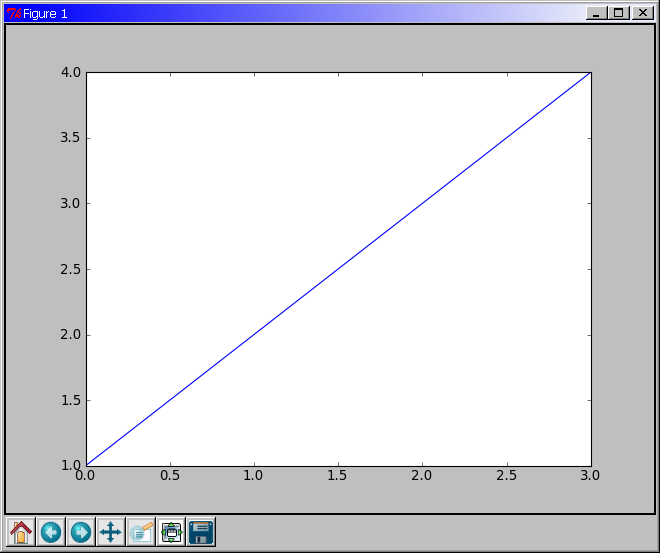
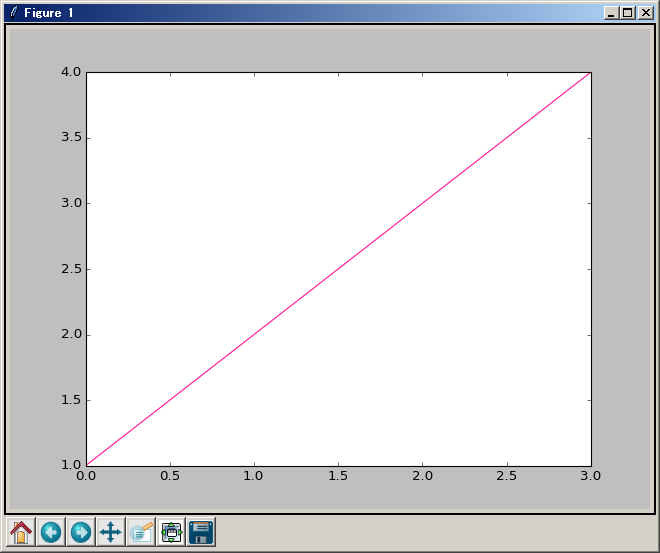
Update description about Matplotlib's UI backends.

diff --git a/source/python-matplotlib/basic.rst b/source/python-matplotlib/basic.rst
@@ -250,57 +250,51 @@ Axis (``matplotlib.axis.Axis``)
 
 バックエンド
 ======================================================================
-「プロッティングの出力先」と解釈していいか。
+バックエンドとは、グラフを何が何へ出力するのかを指す概念であると思う。
+これは公式のドキュメントの記述が完璧なので、
+何か気になることができたら、素直にそちらを当たるのがよい。
 
-ユーザーインターフェイスバックエンドとハードコピーバックエンドの二種類がある。
-前者はウィンドウ、後者はファイルと考えていいか。
+ユーザーインターフェイスバックエンドとハードコピーバックエンドの二種類があり、
+前者はウィンドウ、後者はファイル形式とおおまかに考えられる。
 それぞれ ``plt.show()`` と ``plt.savefig()`` の振る舞いに影響する。
+
+ここではコードでのバックエンド設定方法を述べる。
+設定ファイルによる設定方法は :doc:`config` を参照。
 
 ユーザーインターフェイスバックエンド
 ----------------------------------------------------------------------
-rc パラメーターでバックエンドを指定する。
-:file:`matplotlibrc` に記述するのであれば、こんな感じになる：
-
-.. code-block:: cfg
-
-   # PyQt4 によるウィンドウでグラフを描く。
-   # もちろん、PyQt4 が別途インストール済みであることが前提。
-   # ちなみに Qt5Agg は Matplotlib 1.3.x 時点では実装されていない。
-   backend : Qt4Agg
-
-コードで動的に（実行時に）指定するのならばこうする。
+例えば PyQt5 の UI でグラフをウィンドウに表示する場合、次のようにするとそうなる。
 
 .. code-block:: python3
 
    import matplotlib as mpl
-   mpl.use('Qt4Agg')
-
-.. image:: /_static/mpl-qt4agg.png
-   :scale: 50%
+   mpl.use('Qt5Agg')
 
 なお ``mpl.use`` 関数を呼び出すタイミングは、最初の ``import matplotlib``
 の直後がベストのようだ。
+IPython_ のセッションであらかじめ ``matplotlib.plt`` 等がインポートされていて、
+同関数が呼び出せない状況に陥っているというのがありがちだ。
 
-個人的にはユーザーインターフェイスバックエンドをカスタマイズすることはない。
-デフォルトの ``TkAgg`` のままで十分だ。
+上記のコードが機能するには、環境に PyQt5 がインストール済みである必要がある。
+
+.. image:: /_static/mpl-qt5agg.png
+   :scale: 50%
 
 ハードコピーバックエンド
 ----------------------------------------------------------------------
 ハードコピーバックエンドのカスタマイズはこのノートの目的の一つ。
+``backend`` の値を ``PS``, ``PDF``, ``PNG``, ``SVG`` のどれかにしておくと、
+その名前の形式のファイルを作成することができる。
+コードで実現するには、次のような手順にしておけばよい。
 
-* ``backend`` の値を ``PS``, ``PDF``, ``PNG``, ``SVG`` のどれかにしておくと、
-  その名前の形式のファイルを作成することができる。
+.. code-block:: python3
 
-  コードで実現するには、次のような手順にしておけばよい。
+   import matplotlib as mpl
+   mpl.use('PDF')  # PDF でイメージが欲しい。
 
-  .. code-block:: python3
+   # ... プロッティングコマンド群がここに来る。
 
-     import matplotlib as mpl
-     mpl.use('PDF')  # PDF でイメージが欲しい。
-
-     # ... プロッティングコマンド群がここに来る。
-
-     plt.savefig('output')  # ファイル output.pdf ができる。
+   plt.savefig('output')  # ファイル output.pdf ができる。
 
 ヒストグラムを描く
 ======================================================================

diff --git a/source/python-matplotlib/config.rst b/source/python-matplotlib/config.rst
@@ -49,15 +49,27 @@ Matplotlib 環境のユーザー設定ファイルについて記す。
 次のように編集して手持ちのプロットの表示がどのように変化するのかを検証した。
 
 * PyQt5 をせっかくインストールしているので ``backend : Qt5Agg`` としてみる。
+
+  * 経験則だが ``backend`` の項目だけは他の項目とは異なり、
+    コメントアウトによるデフォルト値適用の解釈がなされないようだ。
+    何らかのバックエンドを明示的に指定する必要があるもよう。
+
 * ``plt.plot`` の線の色は ``axes.color_cycle`` で指定する。
 
   * カンマ区切りで数色を一度に指定する。
-    プロットラインを追加するたびにカンマの次の色が適用されるのだろう。
+    プロットを ``plt.plot`` 呼び出しで追加するたびに、
+    カンマで区切られた色が cyclic に適用されるのだろう。
 
     .. code-block:: text
 
        axes.color_cycle : deeppink, pink, b, g, r, c, m, y, k
 
 * LaTeX 周りの設定は要研究。特にフォントの指定は大切そうだ。
+
+* ハードコピーバックエンドのデフォルト値を ``savefig.format`` で設定できる。
+
+  .. code-block:: text
+
+     savefig.format : png      # png, ps, pdf, svg
 
 .. include:: /_include/python-refs-sci.txt

diff --git a/source/python-matplotlib/advanced.rst b/source/python-matplotlib/advanced.rst
@@ -53,6 +53,8 @@ Matplotlib 関連の処理の説明を補足する
   キーワード引数 ``projection`` を ``3d`` とすることで 3D プロット専用の Axes を生成し、
   同時にカレントにセットする。
 
+  * このメソッド呼び出しが成功するには ``Axes3D`` のインポートが必要。
+
 * メソッド ``ax.scatter`` と ``ax.plot`` を用いて次の形状をプロットする。
 
   #. 入力データである通過点 (black)

diff --git a/source/python-matplotlib/index.rst b/source/python-matplotlib/index.rst
@@ -40,7 +40,7 @@ Matplotlib で目的を拡大し過ぎないように、ここまでできれば
      * Matplotlib_ 1.1.0, 1.1.1, 1.3.1, 1.4.3
      * NumPy_ 1.6.0, 1.6.2, 1.8.2, 1.9.2
      * PyParsing_ 2.0.2
-     * PyQt_ 4.8.4, XXXXX
+     * PyQt_ 4.8.4, 5.3.1
 
 関連リンク
 ======================================================================
